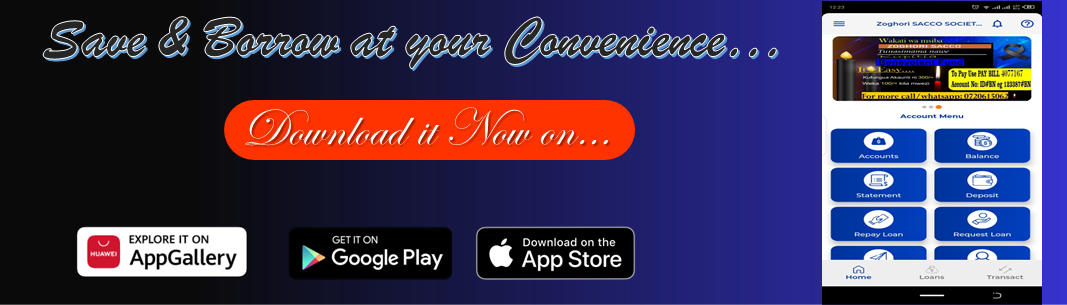
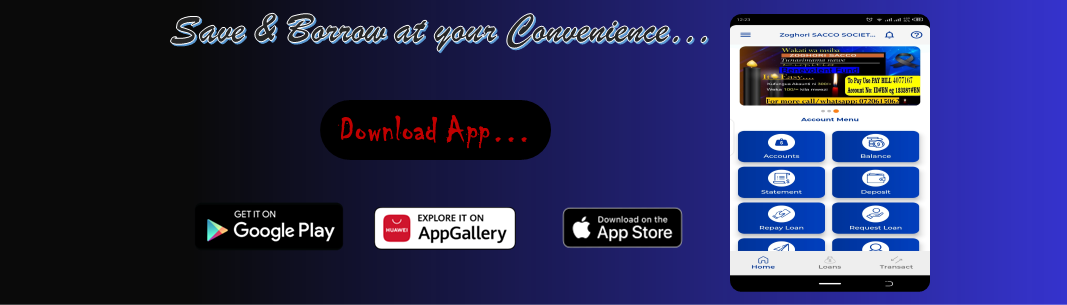
appdownload

diff --git a/index.html b/index.html
@@ -26,49 +26,13 @@
     <link href="assets/bcss/swiper/swiper-bundle.min.css" rel="stylesheet">
 
     <!-- Template Main CSS File -->
-    <link href="assets/css/style.css" rel="stylesheet">
+    <link href="./assets/css/style.css" rel="stylesheet">
 
 </head>
-
 <body>
-    <!-- Messenger Chat plugin Code -->
-    <div id="fb-root"></div>
-
-    <!-- Your Chat plugin code -->
-    <div id="fb-customer-chat" class="fb-customerchat">
-    </div>
-
-    <script>
-        var chatbox = document.getElementById('fb-customer-chat');
-        chatbox.setAttribute("page_id", "616724945065604");
-        chatbox.setAttribute("attribution", "biz_inbox");
-    </script>
-
-    <!-- Your SDK code -->
-    <script>
-        window.fbAsyncInit = function() {
-            FB.init({
-                xfbml: true,
-                version: 'v13.0'
-            });
-        };
-
-        (function(d, s, id) {
-            var js, fjs = d.getElementsByTagName(s)[0];
-            if (d.getElementById(id)) return;
-            js = d.createElement(s);
-            js.id = id;
-            js.src = 'https://connect.facebook.net/en_GB/sdk/xfbml.customerchat.js';
-            fjs.parentNode.insertBefore(js, fjs);
-        }(document, 'script', 'facebook-jssdk'));
-    </script>
-
+   
     <!-- ======= Top Bar ======= -->
     <section id="topbar" class="d-flex alaign-items-center">
-        <!--<div class="container d-flex justify-content-center">
-            <i class="bx bxs-map d-flex align-items-center">
-            <span>MOMBASA,TILU BILU BUILDING, FIRST FLOOR</span></i>
-        </div>-->
         <div class="container d-flex justify-content-center">
             <i class="bx bxs-watch d-flex align-items-center"><span>MON-FRI: 8.00AM-5.00PM | SAT 8.00AM-1.00PM</span></i>
         </div>

diff --git a/assets/css/style.css b/assets/css/style.css
@@ -446,7 +446,7 @@ body {
         filter: grayscale(0.5);
     }
     .slide-2{
-        background-image: url(/zoghorisacco/assets/img/slide/downloadapp.png);
+        background-image: url(/zoghorisacco/assets/img/slide/download-app.png);
         height: 100%;
         width: 100%;
         filter: blur(0.6);
